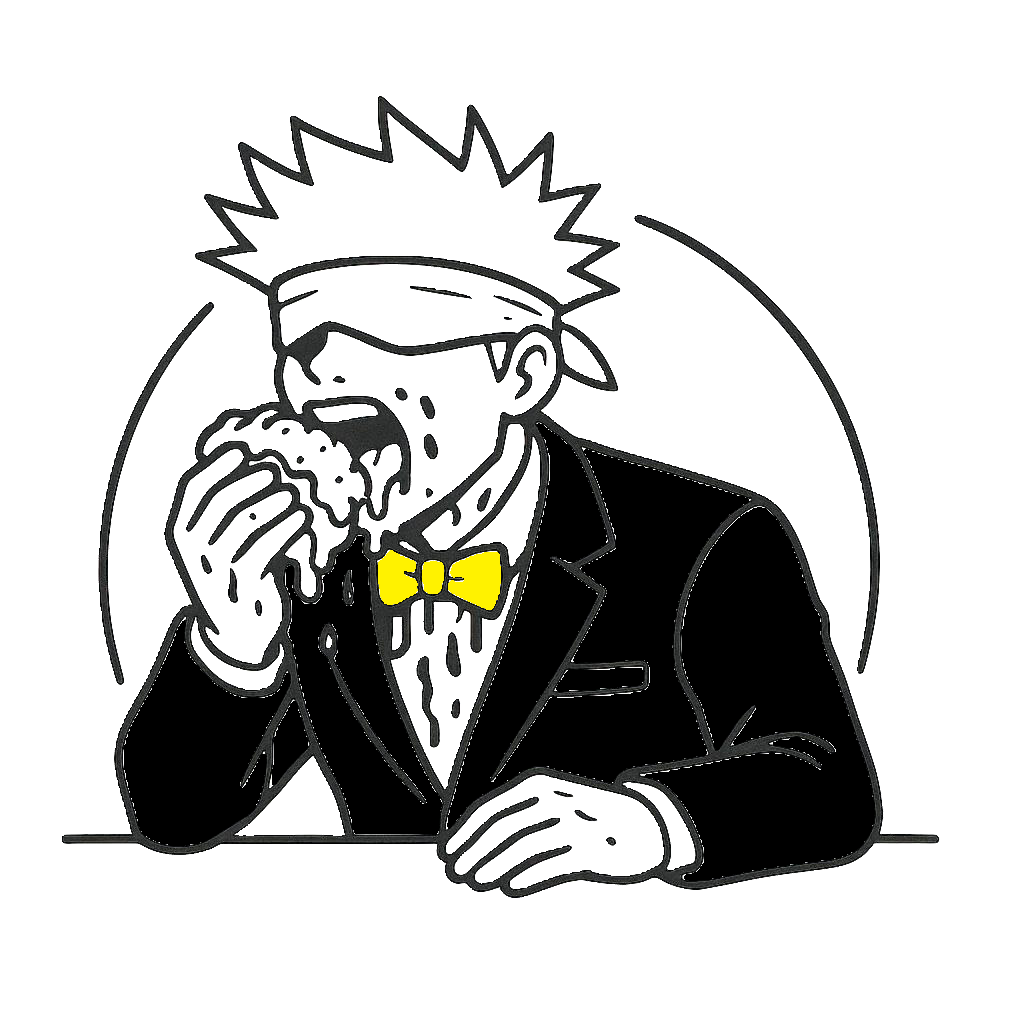
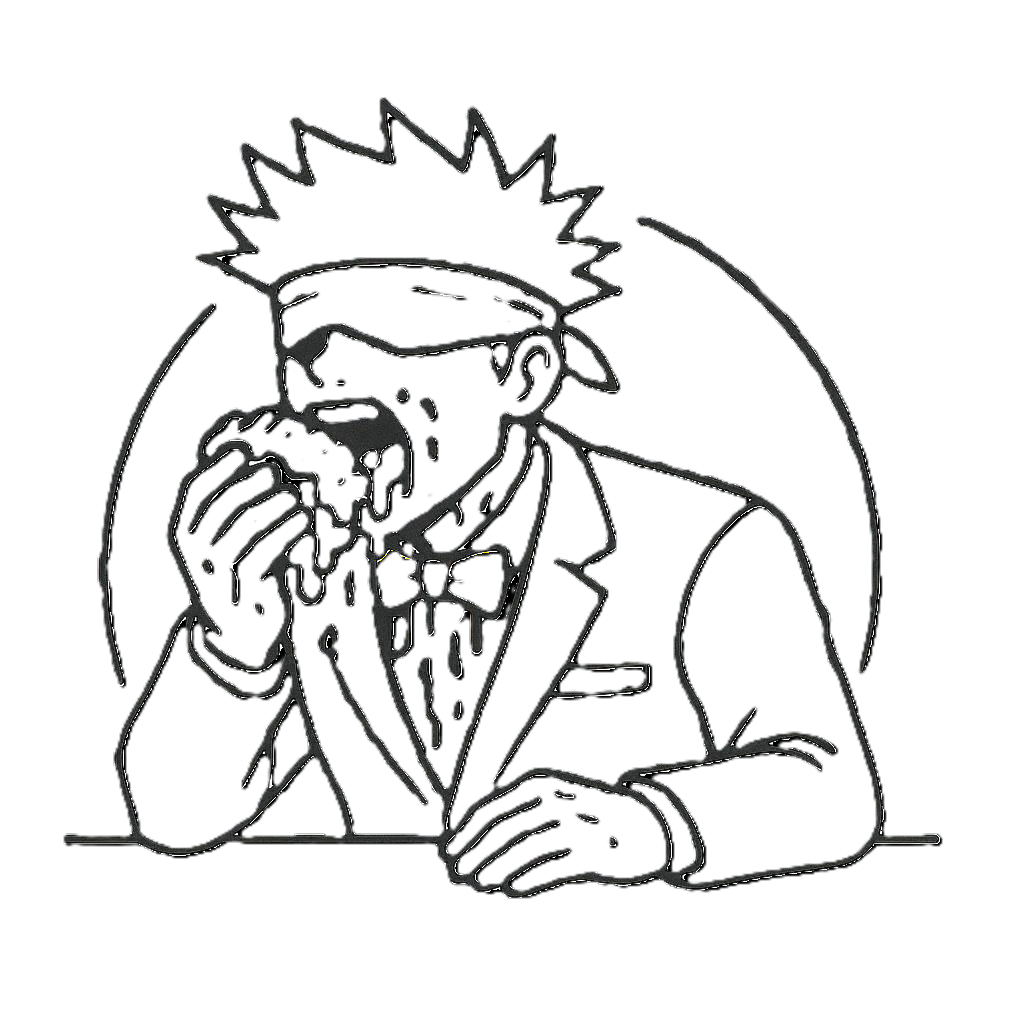
made-changes-to-stuff

diff --git a/Styles/StyleSheet.css b/Styles/StyleSheet.css
@@ -1557,14 +1557,20 @@ input[type="file"] {
 
 #addMenuContainer {
     padding-top: 0px;
-    flex: 50%;
+    margin: auto;
     background-color: none;
+    width:40%;
 }
-
+    #addMenuContainer #gojoEating {
+        margin-left:397px;
+        width:200px;
+        height:200px;
+    }
 #menuViewContainer {
-    flex: 50%;
-    background-color: none;
+    width:40%;
+    
     padding: 20px;
+    margin:auto;
 }
 
 #menuTable {
@@ -1604,7 +1610,7 @@ input[type="file"] {
     text-align: left;
 }
 
-.menuGrid {
+#menuViewContainer .menuGrid {
     width: 100%;
     border-collapse: collapse;
     text-align: center;
@@ -1612,6 +1618,7 @@ input[type="file"] {
     font-size: 15px;
     background-color: white;
     color: #2C0F3D;
+    justify-content:center;
 }
 
     .menuGrid td, .menuGrid th {
@@ -1629,10 +1636,11 @@ input[type="file"] {
     font-size: 15px;
 }
 
-#gojoEating {
-    width: 200px;
-    height: 200px;
-    text-align: center;
-    margin-left: 200px;
+#menuHeading {
+    text-align:center;
+    color: #2C0F3D;
+    font-family: 'Arial Rounded MT';
+    font-size: 30px;
+    
 }
 

diff --git a/Menu.aspx.cs b/Menu.aspx.cs
@@ -24,6 +24,7 @@ namespace Purple_Hollow_Wedding_Planners
             if (!IsPostBack)
             {
                 LoadMenuItems();
+             
             }
         }
         private void DisablePageInputs()
@@ -73,10 +74,15 @@ namespace Purple_Hollow_Wedding_Planners
 
            
             txtDishName.Text = "";
+            ddlCategory.SelectedIndex = 0;
             txtdishDescription.Text = "";
+            rfvDishName.IsValid = true;
+            rfvCategory.IsValid = true;
+            rfvDescription.IsValid = true;
+            // Clear validation state so messages don't reappear
 
-            
             LoadMenuItems();
+            
             ScriptManager.RegisterStartupScript(this, GetType(), "popup", "showDishAdded();", true);
         }
         protected void gvMenuItems_RowEditing(object sender, GridViewEditEventArgs e)
